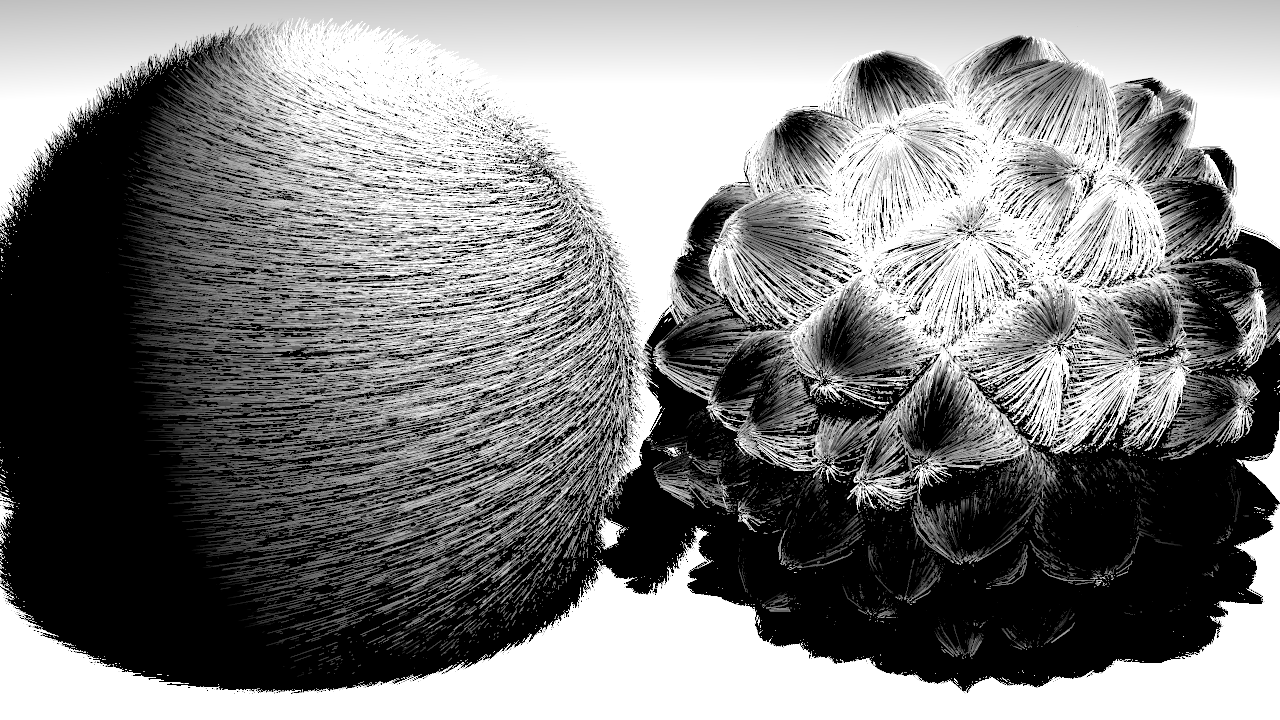
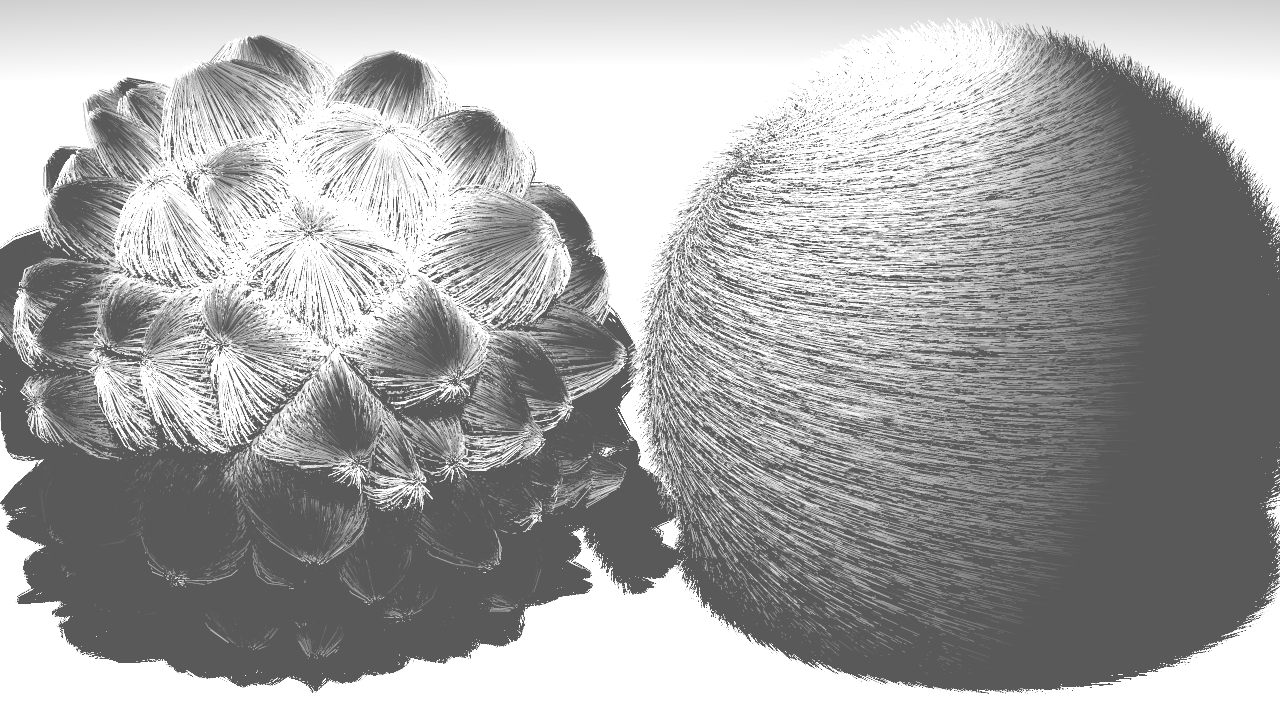
j

diff --git a/src/raytrace.cpp b/src/raytrace.cpp
@@ -5,12 +5,13 @@
 #include "yocto_obj.h"
 #include "yocto_utils.h"
 #include "printData.h"
+#include "math.h"
 
 using namespace std;
 vector<yobj::shape*> lights= vector<yobj::shape*>{};
-float epsilon = 1e-3;
+float epsilon = 1e-6;
 
-ym::vec3f normal(const yobj::mesh* msh, int eid, ym::vec3f euv) {
+ym::vec3f triangleNormal(const yobj::mesh* msh, int eid, ym::vec3f euv) {
   auto t = msh->shapes[0]->triangles[eid];
   return ym::normalize(euv.x * msh->shapes[0]->norm[t.x] +
                    euv.y * msh->shapes[0]->norm[t.y] + euv.z * msh->shapes[0]->norm[t.z]);
@@ -21,13 +22,72 @@ ym::vec3f lineNormal(const yobj::mesh* msh, int eid, ym::vec3f euv) {
                        euv.y * msh->shapes[0]->norm[t.y]);
 }
 ym::vec3f trianglePosition(const yobj::mesh* msh, int eid, ym::vec3f euv) {
-  auto t = msh->shapes[0]->triangles[eid];
-  return (euv.x * msh->shapes[0]->pos[t.x] + euv.y * msh->shapes[0]->pos[t.y] +
-         euv.z * msh->shapes[0]->pos[t.z]);
+  auto l = msh->shapes[0]->triangles[eid];
+  return (euv.x * msh->shapes[0]->pos[l.x] + euv.y * msh->shapes[0]->pos[l.y] +
+         euv.z * msh->shapes[0]->pos[l.z]);
 }
 ym::vec3f linePosition(const yobj::mesh* msh, int eid, ym::vec3f euv) {
-  auto t = msh->shapes[0]->lines[eid];
-  return (euv.x * msh->shapes[0]->pos[t.x] + euv.y * msh->shapes[0]->pos[t.y]);
+  auto l = msh->shapes[0]->lines[eid];
+  return (euv.x * msh->shapes[0]->pos[l.x] + euv.y * msh->shapes[0]->pos[l.y]);
+}
+
+ym::image4f flipImage4(ym::image4f img){
+  auto W = img.width();
+  auto H = img.height();
+  ym::image4f m = ym::image4f(W,H, {0,0,0,1});
+  for (int i = 0; i <W; ++i) {
+    for (int j = 0; j <H; ++j) {
+      m[{i,(H-1-j)}]=img[{i,j}];
+    }
+  }
+  return m;
+};
+/*
+ym::vec3b textureLDR(const yobj::mesh* msh, int eid, ym::vec3f euv, yobj::texture* tex ){
+  auto tr = msh->shapes[0]->triangles[eid];
+  auto u = euv.x*msh->shapes[0]->pos[tr.x].x + euv.y*msh->shapes[0]->pos[tr.y].x + euv.z*msh->shapes[0]->pos[tr.z].x;
+  auto v = euv.x*msh->shapes[0]->pos[tr.x].y + euv.y*msh->shapes[0]->pos[tr.y].y + euv.z*msh->shapes[0]->pos[tr.z].y;
+
+  float s = (fmod(u,1.0f))*tex->width();
+  float t = (fmod(v,1.0f))*tex->height();
+
+  int i = (int)round(s);
+  int j = (int)round(t);
+
+  auto i1 = (i + 1)%tex->width();
+  auto j1 = (j + 1)%tex->height();
+
+  float wi = s - i;
+  float wj = t - j;
+
+
+
+  return ym::vec3b((1-wi)*(1-wj))*tex->ldr[{i,j}];
+         +ym::vec4b(wi*(1-wj))*tex->ldr[{i1,j}]
+         +ym::vec4b(wj*(1-wi))*tex->ldr[{i,j1}]
+         +ym::vec4b(wi*wj)*tex->ldr[{i1,j1}];
+}*/
+ym::vec4f textureHDR(const yobj::mesh* msh, int eid, ym::vec3f euv, yobj::texture* tex ){
+  auto tr = msh->shapes[0]->triangles[eid];
+  auto u = euv.x*msh->shapes[0]->pos[tr.x].x + euv.y*msh->shapes[0]->pos[tr.y].x + euv.z*msh->shapes[0]->pos[tr.z].x;
+  auto v = euv.x*msh->shapes[0]->pos[tr.x].y + euv.y*msh->shapes[0]->pos[tr.y].y + euv.z*msh->shapes[0]->pos[tr.z].y;
+
+  float s = (fmod(u,1.0f))*tex->width();
+  float t = (fmod(v,1.0f))*tex->height();
+
+  int i = (int)round(s);
+  int j = (int)round(t);
+
+  auto i1 = (i + 1)%tex->width();
+  auto j1 = (j + 1)%tex->height();
+
+  float wi = s - i;
+  float wj = t - j;
+
+  return ym::vec4f((1-wi)*(1-wj))*tex->hdr[{i,j}]
+         +ym::vec4f(wi*(1-wj))*tex->hdr[{i1,j}]
+         +ym::vec4f(wj*(1-wi))*tex->hdr[{i,j1}]
+         +ym::vec4f(wi*wj)*tex->hdr[{i1,j1}];
 }
 
 ybvh::scene* make_bvh(yobj::scene* scn) {
@@ -66,11 +126,11 @@ ybvh::scene* make_bvh(yobj::scene* scn) {
     if(!shp->points.empty())
       continue;
 
-//    auto new_frame = ym::inverse(ym::to_frame(scn->cameras[0]->matrix))*ym::to_frame(ist->matrix);
+    //auto new_frame = ym::transform_frame(ym::inverse(ym::to_frame(scn->cameras[0]->xform())),ym::to_frame(ist->xform()));
     //auto iid =
     ybvh::add_instance(bvh_scn, ym::to_frame(ist->xform()),
                          shape_map.at(shp));
-//    ybvh::set_instance_frame(bvh_scn,iid,new_frame);
+    //ybvh::set_instance_frame(bvh_scn,iid,new_frame);
   }
 
   ybvh::build_scene_bvh(bvh_scn);
@@ -103,6 +163,8 @@ ym::ray3f camera_ray(yobj::camera* cam, float u, float v, float w, float h){
 
 ym::vec4f compute_color(const ybvh::scene* bvh, const yobj::scene* scn, ym::ray3f ray){
 
+  //ym::transform_ray(ym::inverse(ym::to_frame(scn->cameras[0]->xform())),ray);
+  //ray=ym::transform_ray(ym::to_frame(scn->cameras[0]->xform()),ray);
   auto intersection = ybvh::intersect_scene(bvh, ray, false);
 
 
@@ -116,11 +178,24 @@ ym::vec4f compute_color(const ybvh::scene* bvh, const yobj::scene* scn, ym::ray3
       auto msh = ist->msh;
       auto kd = mat->kd;
       auto ks = mat->ks;
-    if(!scn->instances[intersection.iid]->msh->shapes[0]->triangles.empty()){
+    if(!scn->instances[intersection.iid]->msh->shapes[0]->triangles.empty()){//triangles
 
-      auto n =  normal(msh,intersection.eid,intersection.euv.xyz());
+      auto n =  triangleNormal(msh,intersection.eid,intersection.euv.xyz());
       auto p = trianglePosition(msh,intersection.eid,intersection.euv.xyz());
-
+      /*if(mat->kd_txt!= nullptr)
+      {
+        if(mat->kd_txt->ldr)
+          kd*=textureLDR(msh,intersection.eid,intersection.euv.xyz(), mat->kd_txt);
+        else
+          kd*=textureHDR(msh,intersection.eid,intersection.euv.xyz(), mat->kd_txt);
+      }
+      if(mat->ks_txt!= nullptr)
+      {
+        if(mat->ks_txt->ldr)
+          ks*=textureLDR(msh,intersection.eid,intersection.euv.xyz(), mat->ks_txt);
+        else
+          ks*=textureHDR(msh,intersection.eid,intersection.euv.xyz(), mat->ks_txt);
+      }*/
       for(auto light:lights){
 
         auto l = normalize(light->pos[0]-p);
@@ -142,9 +217,9 @@ ym::vec4f compute_color(const ybvh::scene* bvh, const yobj::scene* scn, ym::ray3
         }
       }
 
-      if(mat->kr.x!=0 && mat->kr.y!=0 && mat->kr.z!=0)
+      if(mat->kr.x!=0 && mat->kr.y!=0 && mat->kr.z!=0)//reflection
       {
-        ym::vec3f n =  normal(msh,intersection.eid,intersection.euv.xyz());
+        ym::vec3f n =  triangleNormal(msh,intersection.eid,intersection.euv.xyz());
         auto ist = scn->instances[intersection.iid];
         auto mat = ist->msh->shapes[0]->mat;
 
@@ -162,8 +237,10 @@ ym::vec4f compute_color(const ybvh::scene* bvh, const yobj::scene* scn, ym::ray3
         c.xyz() += mat->kr*compute_color(bvh,scn, reflectionRay).xyz();
       }
 
+
+
     }
-    else{
+    else{//lines
       auto n =  lineNormal(msh,intersection.eid,intersection.euv.xyz());
       auto p = linePosition(msh,intersection.eid,intersection.euv.xyz());
 
@@ -185,12 +262,12 @@ ym::vec4f compute_color(const ybvh::scene* bvh, const yobj::scene* scn, ym::ray3
       }
     }
   }
-
+  //c+={0.5, 0.2, 0.2,1};
   return {c.x, c.y, c.z, 0};
 }
 
 ym::image4f raytrace(const yobj::scene* scn, const ybvh::scene* bvh,
-                     const ym::vec3f& amb, int resolution, int samples) {
+                     const ym::vec4f& amb, int resolution, int samples) {
   auto cam = scn->cameras[0];
 
   float h = 2*tan(cam->yfov/2);
@@ -203,27 +280,27 @@ ym::image4f raytrace(const yobj::scene* scn, const ybvh::scene* bvh,
   ym::image4f img = ym::image4f(width,height, {0,0,0,1});
 
   /// antialiased with n^2 samplers per pixel
-  for(int j = 0; j<height; j++) {
-    for(int i = 0; i<width; i++) {
-      for(int sj=0; sj<samples;sj++) {
-        for (int si = 0; si < samples; si++) {
+  for(int j = 0; j<height; ++j) {
+    for(int i = 0; i<width; ++i) {
+      for(int sj=0; sj<samples;++sj) {
+        for (int si = 0; si < samples; ++si) {
           auto u = (i + (si+0.5f)/samples) / width;
           auto v = (j + (sj+0.5f)/samples) / height;
           auto ray = camera_ray(cam, u, v, w, h);
-          img[{i, j}] += compute_color(bvh,scn,ray);
+          img[{i, j}] += amb + compute_color(bvh,scn,ray);
         }
       }
       img[{i, j}] /= {norm,norm,norm,1};
     }
   }
 
-  return img;
+  return flipImage4(img);
 }
 
 
 
 ym::image4f raytrace_mt(const yobj::scene* scn, const ybvh::scene* bvh,
-                        const ym::vec3f& amb, int resolution, int samples) {
+                        const ym::vec4f& amb, int resolution, int samples) {
   // YOUR CODE GOES HERE ----------------------
   return {};
 }
@@ -266,8 +343,8 @@ int main(int argc, char** argv) {
   // raytrace
   yu::logging::log_info("tracing scene");
   auto hdr = (parallel)
-             ? raytrace_mt(scn, bvh, {amb, amb, amb}, resolution, samples)
-             : raytrace(scn, bvh, {amb, amb, amb}, resolution, samples);
+             ? raytrace_mt(scn, bvh, {amb, amb, amb,1}, resolution, samples)
+             : raytrace(scn, bvh, {amb, amb, amb,1}, resolution, samples);
   // tonemap and save
   yu::logging::log_info("saving image " + imageout);
   auto ldr = ym::tonemap_image(hdr, ym::tonemap_type::srgb, 0, 2.2);

diff --git a/src/printData.h b/src/printData.h
@@ -22,6 +22,7 @@ void printMatrix(ym::mat<T, N, M> m){
   }
   printf("\n");
 }
+
 template <typename T, int N>
 void printVector(ym::vec<T, N> v){
   for(int i=0; i<N; i++) {
